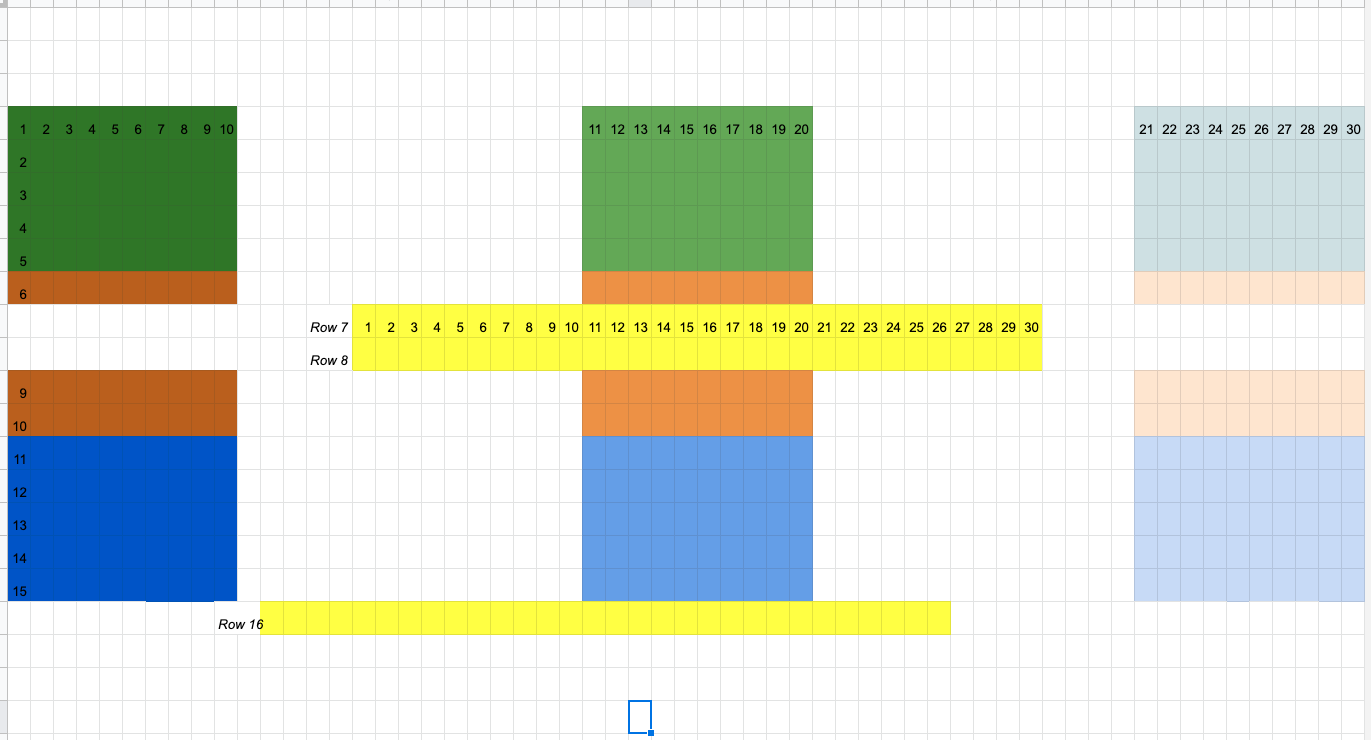
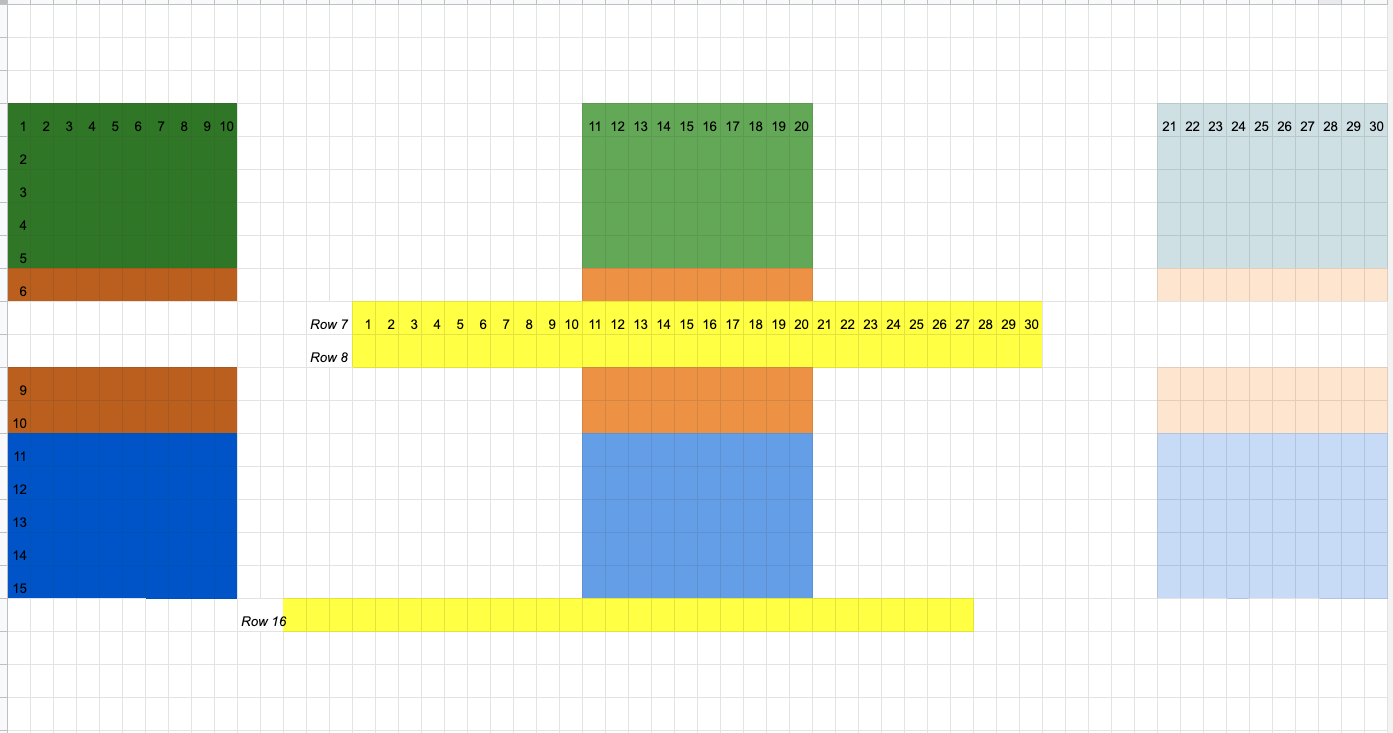
Update fakehd row mappings for switch back to 60 cols
Docs bump for grid size

Rename fakehd display info to full_display info to better reflect revised usage

diff --git a/jni/fakehd/fakehd.c b/jni/fakehd/fakehd.c
@@ -136,20 +136,20 @@ static void fakehd_get_row_config(int rownum, int row[INPUT_COLS])
         memcpy(row, (int[]){15, 16, 17, 18, 19, 20, 21, 22, 23, 24, 25, 26, 27, 28, 29, 30, 31, 32, 33, 34, 35, 36, 37, 38, 39, 40, 41, 42, 43, 44}, sizeof(row[0]) * INPUT_COLS);
         break;
     case 'R':
-        memcpy(row, (int[]){29, 30, 31, 32, 33, 34, 35, 36, 37, 38, 39, 40, 41, 42, 43, 44, 45, 46, 47, 48, 49, 50, 51, 52, 53, 54, 55, 56, 57, 58}, sizeof(row[0]) * INPUT_COLS);
+        memcpy(row, (int[]){30, 31, 32, 33, 34, 35, 36, 37, 38, 39, 40, 41, 42, 43, 44, 45, 46, 47, 48, 49, 50, 51, 52, 53, 54, 55, 56, 57, 58, 59}, sizeof(row[0]) * INPUT_COLS);
         break;
     case 'T':
-        memcpy(row, (int[]){0, 1, 2, 3, 4, 5, 6, 7, 8, 9, 10, 11, 12, 13, 14, 44, 45, 46, 47, 48, 49, 50, 51, 52, 53, 54, 55, 56, 57, 58}, sizeof(row[0]) * INPUT_COLS);
+        memcpy(row, (int[]){0, 1, 2, 3, 4, 5, 6, 7, 8, 9, 10, 11, 12, 13, 14, 45, 46, 47, 48, 49, 50, 51, 52, 53, 54, 55, 56, 57, 58, 59}, sizeof(row[0]) * INPUT_COLS);
         break;
     case 'F':
         memcpy(row, (int[]){10, 11, 12, 13, 14, 15, 16, 17, 18, 19, 20, 21, 22, 23, 24, 35, 36, 37, 38, 39, 40, 41, 42, 43, 44, 45, 46, 47, 48, 49}, sizeof(row[0]) * INPUT_COLS);
         break;
     case 'D':
-        memcpy(row, (int[]){11, 12, 13, 14, 15, 16, 17, 18, 19, 20, 21, 22, 23, 24, 25, 26, 27, 28, 29, 30, 31, 32, 33, 34, 35, 36, 37, 38, 39, 40}, sizeof(row[0]) * INPUT_COLS);
+        memcpy(row, (int[]){12, 13, 14, 15, 16, 17, 18, 19, 20, 21, 22, 23, 24, 25, 26, 27, 28, 29, 30, 31, 32, 33, 34, 35, 36, 37, 38, 39, 40, 41}, sizeof(row[0]) * INPUT_COLS);
         break;
     case 'W':
     default:
-        memcpy(row, (int[]){0, 1, 2, 3, 4, 5, 6, 7, 8, 9, 25, 26, 27, 28, 29, 30, 31, 32, 33, 34, 49, 50, 51, 52, 53, 54, 55, 56, 57, 58}, sizeof(row[0]) * INPUT_COLS);
+        memcpy(row, (int[]){0, 1, 2, 3, 4, 5, 6, 7, 8, 9, 25, 26, 27, 28, 29, 30, 31, 32, 33, 34, 50, 51, 52, 53, 54, 55, 56, 57, 58, 59}, sizeof(row[0]) * INPUT_COLS);
         break;
     }
 

diff --git a/jni/osd_dji_overlay_udp.c b/jni/osd_dji_overlay_udp.c
@@ -110,7 +110,7 @@ static display_info_t sd_display_info = {
     .font_page_2 = NULL,
 };
 
-static display_info_t fakehd_display_info = {
+static display_info_t full_display_info = {
     .char_width = 60,
     .char_height = 22,
     .font_width = 24,
@@ -374,8 +374,8 @@ static void load_fonts(uint8_t font_variant) {
     load_font(&sd_display_info.font_page_2, 1, 0, font_variant);
     load_font(&hd_display_info.font_page_1, 0, 1, font_variant);
     load_font(&hd_display_info.font_page_2, 1, 1, font_variant);
-    load_font(&fakehd_display_info.font_page_1, 0, 1, font_variant);
-    load_font(&fakehd_display_info.font_page_2, 1, 1, font_variant);
+    load_font(&full_display_info.font_page_1, 0, 1, font_variant);
+    load_font(&full_display_info.font_page_2, 1, 1, font_variant);
     load_font(&overlay_display_info.font_page_1, 0, 1, font_variant);
     load_font(&overlay_display_info.font_page_2, 1, 1, font_variant);
 }
@@ -398,7 +398,7 @@ static void close_all_fonts() {
     close_fonts(&sd_display_info);
     close_fonts(&hd_display_info);
     close_fonts(&overlay_display_info);
-    close_fonts(&fakehd_display_info);
+    close_fonts(&full_display_info);
 }
 
 static void msp_set_options(uint8_t font_num, uint8_t is_hd) {
@@ -406,7 +406,7 @@ static void msp_set_options(uint8_t font_num, uint8_t is_hd) {
     switch (is_hd) {
         case 3:
             fakehd_enabled = 0;
-            current_display_info = &fakehd_display_info;
+            current_display_info = &full_display_info;
             break;
         case 2:
         case 1:
@@ -654,7 +654,7 @@ void osd_directfb(duss_disp_instance_handle_t *disp, duss_hal_obj_handle_t ion_h
     DEBUG_PRINT("Detected DJI goggles %s\n", is_v2_goggles ? "V2" : "V1");
 
     if (fakehd_enabled) {
-        current_display_info = &fakehd_display_info;
+        current_display_info = &full_display_info;
     } else {
         current_display_info = &sd_display_info;
     }

diff --git a/README.md b/README.md
@@ -99,10 +99,10 @@ Each row can be set to one of:
 |---|----|
 | L | Left aligned, the SD row occupies cell 1-30, no gaps |
 | C | Center aligned, the SD row occupies cell 16-45, no gaps |
-| R | Right aligned, , the SD row occupies cell 30-59, no gaps |
-| W | Split A - Row is split in 3, the FakeHD default, filling cells 1-10, 26-35, 50-59 |
-| T | Split B - Row is split in 2, touching the sides - filling cells 1-15 + 45-59 |
-| F | Split C - Row is split in 2 and away from the sides - filling cells 11-25 + 35-49 |
+| R | Right aligned, , the SD row occupies cell 31-60, no gaps |
+| W | Split A - Row is split in 3, the FakeHD default, filling cells 1-10, 26-35, 51-60 |
+| T | Split B - Row is split in 2, touching the sides - filling cells 1-15 + 46-60 |
+| F | Split C - Row is split in 2 and away from the sides - filling cells 11-25 + 36-50 |
 | D | DJI Special - Row is centered but pushed a little left; used to posiution the bottom row between the existing DJI OSD elements |
 
 <img src="/docs/img/fakehd_rows.png" alt="Columns"  height=200 />
